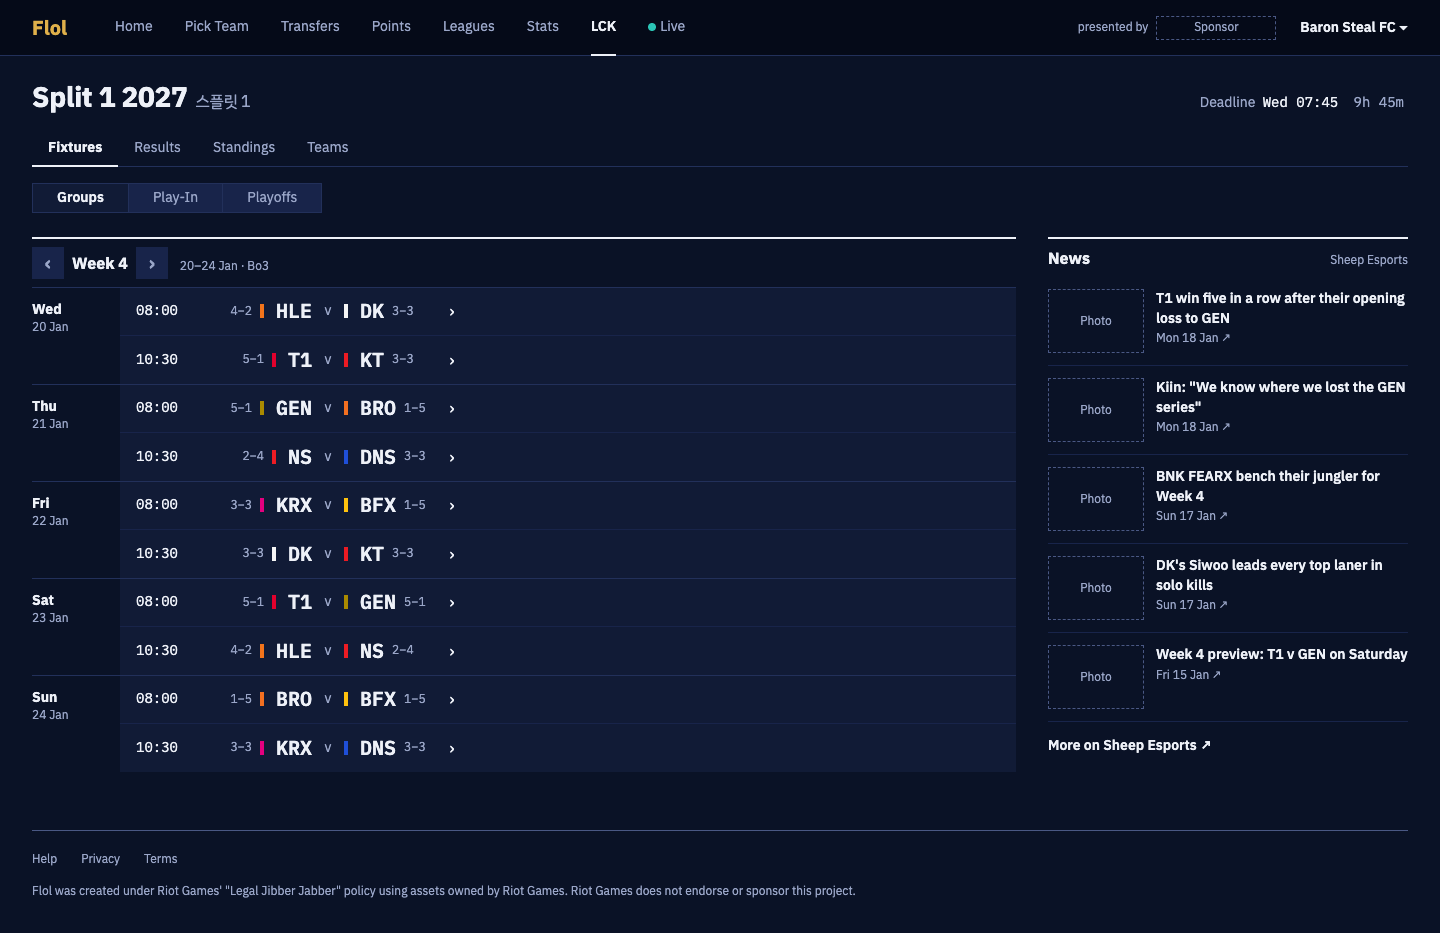
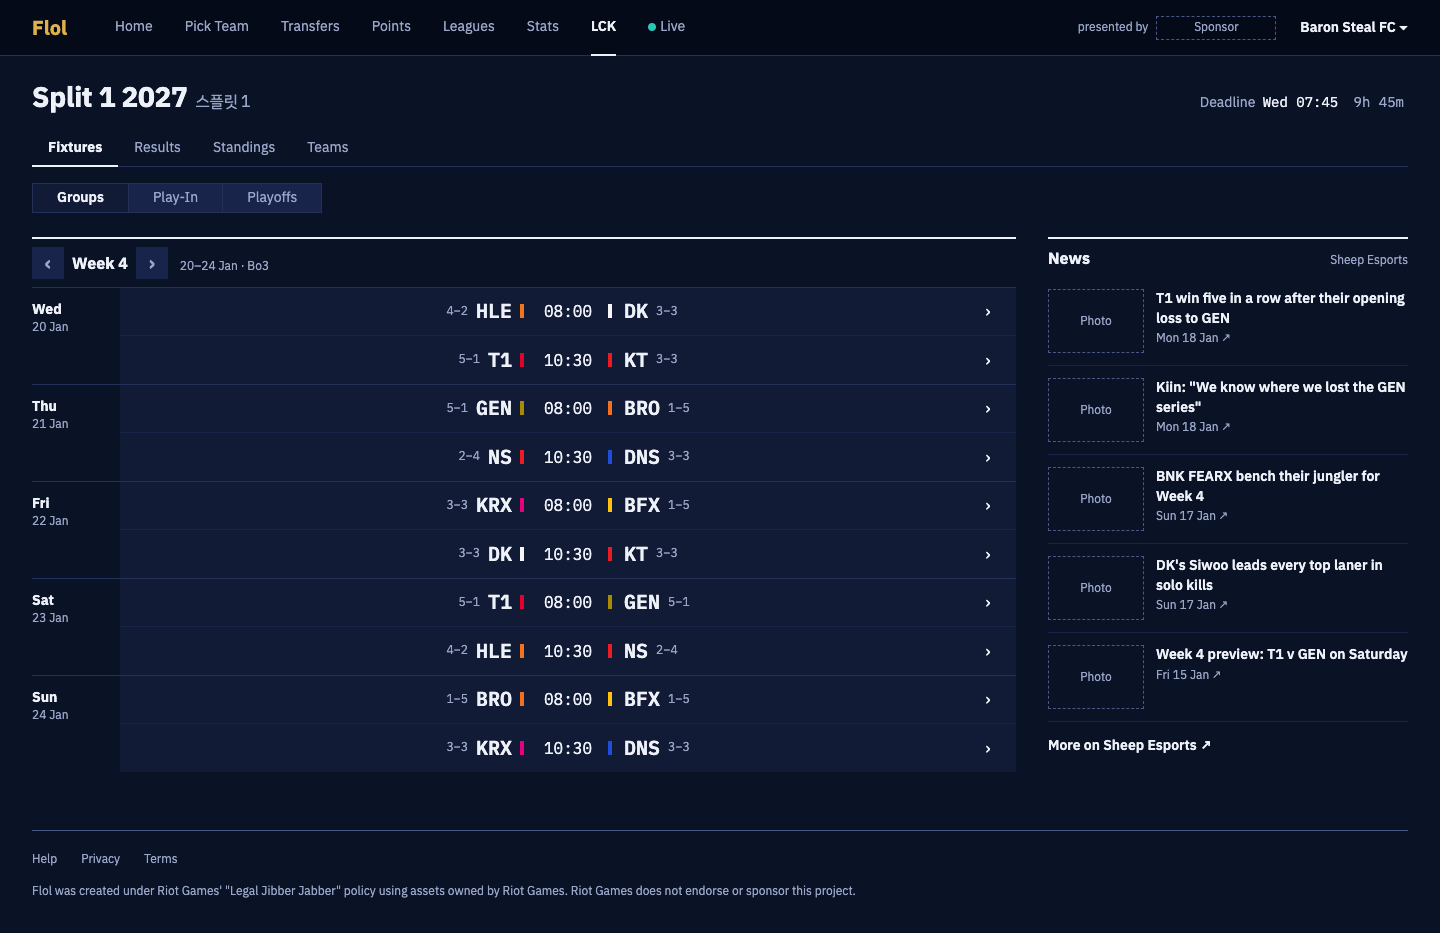
feat: fixtures rows centred with the time between the teams; a rank's move green up and red down
Part of #408

diff --git a/src/screens/lck-hub/FixturesTab.tsx b/src/screens/lck-hub/FixturesTab.tsx
@@ -3,11 +3,10 @@ import { TeamBar, GoLink, NONE } from "../../parts";
 import { seriesGo } from "../../paths";
 import type { HubWeek } from "./types";
 import { ByDay, WeekTitle } from "./Week";
-import { WORDS } from "./words";
 
 /**
- * Fixtures: one week by day. Each series: your time, each team's record beside its code,
- * blue side left, then `›`; the whole row opens the Series page.
+ * Fixtures: one week by day. Each series, centred as FPL's and UCL Fantasy's (Craig, 24 Nov 2026): each team's
+ * record and code either side of your time, blue side left, then `›`; the whole row opens the Series page.
  */
 export function Fixtures({
   week,
@@ -31,13 +30,12 @@ export function Fixtures({
         series={week.series}
         row={(s) => (
           <GoLink key={s.id} className="lck-hub__series" go={seriesGo(s.id)}>
-            <span className="num">{s.local}</span>
             <span className="lck-hub__home">
               {record(s.home)}
-              <TeamBar team={s.home} />
               <b className="lck-hub__code num">{s.home}</b>
+              <TeamBar team={s.home} />
             </span>
-            <span className="lck-hub__versus">{WORDS.versus}</span>
+            <span className="lck-hub__time num">{s.local}</span>
             <span className="lck-hub__away">
               <TeamBar team={s.away} />
               <b className="lck-hub__code num">{s.away}</b>

diff --git a/src/screens/lck-hub/lck-hub.css b/src/screens/lck-hub/lck-hub.css
@@ -33,16 +33,16 @@
 }
 .lck-hub__series {
   display: grid;
-  grid-template-columns:
-    calc(var(--s-7) + var(--s-4)) calc(var(--s-7) * 2 + var(--s-4)) var(--s-6)
-    calc(var(--s-7) * 2) var(--m-target) 1fr;
+  /* Centred: a team each side of the time; the left padding matches the `›` column, so the time sits mid-row. */
+  grid-template-columns: 1fr calc(var(--s-7) + var(--s-6)) 1fr var(--m-target);
   align-items: center;
   height: var(--s-7);
-  padding: 0 var(--s-4);
+  padding: 0 var(--s-4) 0 calc(var(--s-4) + var(--m-target));
   background: var(--paper);
   border-bottom: var(--m-rule) solid var(--fill);
 }
 .lck-hub__series--result {
+  padding: 0 var(--s-4);
   grid-template-columns: calc(var(--s-7) * 2 + var(--s-6) + var(--s-3)) calc(var(--s-7) + var(--s-6)) calc(var(--s-7) + var(--s-4)) var(--m-target) 1fr;
 }
 .lck-hub__series:last-child {
@@ -75,9 +75,9 @@
 .lck-hub__record {
   margin: 0 var(--s-2);
 }
-.lck-hub__versus {
+.lck-hub__time {
   text-align: center;
-  color: var(--mid);
+  font-size: var(--size-lead);
 }
 .lck-hub__score {
   text-align: center;

diff --git a/src/screens/lck-hub/lck-hub.test.tsx b/src/screens/lck-hub/lck-hub.test.tsx
@@ -37,20 +37,20 @@ describe("each state renders from the fixture, in the picture's order", () => {
       ...STAGES,
       "‹Week 4›",
       "20–24 Jan · Bo3Wed20 Jan",
-      "08:004–2HLEvDK3–3›",
-      "10:305–1T1vKT3–3›",
+      "4–2HLE08:00DK3–3›",
+      "5–1T110:30KT3–3›",
       "Thu21 Jan",
-      "08:005–1GENvBRO1–5›",
-      "10:302–4NSvDNS3–3›",
+      "5–1GEN08:00BRO1–5›",
+      "2–4NS10:30DNS3–3›",
       "Fri22 Jan",
-      "08:003–3KRXvBFX1–5›",
-      "10:303–3DKvKT3–3›",
+      "3–3KRX08:00BFX1–5›",
+      "3–3DK10:30KT3–3›",
       "Sat23 Jan",
-      "08:005–1T1vGEN5–1›",
-      "10:304–2HLEvNS2–4›",
+      "5–1T108:00GEN5–1›",
+      "4–2HLE10:30NS2–4›",
       "Sun24 Jan",
-      "08:001–5BROvBFX1–5›",
-      "10:303–3KRXvDNS3–3›",
+      "1–5BRO08:00BFX1–5›",
+      "3–3KRX10:30DNS3–3›",
       ...NEWS,
     ]);
   });

diff --git a/src/theme/base.css b/src/theme/base.css
@@ -34,7 +34,7 @@ a {
   content: "▼";
   font-size: var(--size-small);
 }
-/* A rank's move stays --text, never gold: red and blue are for prices only. ▲ or ▼, a space, then the places; a held rank's — in mid grey. */
+/* A rank's move: up green, down red, as FPL's arrows (Craig, 24 Nov 2026), never colour alone: ▲ or ▼, a space, then the places; a held rank's — in mid grey. */
 .rank-up,
 .rank-down,
 .rank-held {
@@ -44,6 +44,12 @@ a {
 }
 .rank-held {
   color: var(--mid);
+}
+.rank-up {
+  color: var(--up);
+}
+.rank-down {
+  color: var(--down);
 }
 .rank-up::before {
   content: "▲ ";

diff --git a/src/theme/game.ts b/src/theme/game.ts
@@ -7,6 +7,9 @@ export const game = {
     rise: "#FF6B78",
     /** A price fall, blue as Korea writes a fall, lightened to read on a dark ground. */
     fall: "#6EA2FF",
+    /** A rank's move in a league: up green, down red, as FPL's arrows (Craig, 24 Nov 2026). */
+    up: "#4CD98A",
+    down: "#FF6B78",
   },
 } as const;
 

diff --git a/src/screens/lck-hub/words.ts b/src/screens/lck-hub/words.ts
@@ -8,7 +8,6 @@ export const WORDS = {
   hub: `${REGION.name} hub`,
   /** The stage toggle's name, for a reader. */
   stage: "Stage",
-  versus: "v",
   news: "News",
   /** A headline's picture until the news feed brings its own (#116). */
   photo: "Photo",

diff --git a/src/theme/theme.test.ts b/src/theme/theme.test.ts
@@ -109,6 +109,8 @@ const PAIRS = [
   ["ink", "band"],
   ["ink", "paper"],
   ["onInk", "ink"],
+  ["up", "paper"],
+  ["down", "paper"],
   ["rise", "paper"],
   ["fall", "paper"],
   ["over", "bg"],

diff --git a/docs/design/plate.md b/docs/design/plate.md
@@ -77,6 +77,7 @@ map and the tile keep their earlier values until their own pictures are redrawn.
 | `--banner-rule` | #785A28 | the banner's rule under that hangul |
 | `--rise` | #FF6B78 | a price rise, Korean red lightened for navy |
 | `--fall` | #6EA2FF | a price fall, Korean blue lightened for navy |
+| `--up`, `--down` | #4CD98A, #FF6B78 | a rank's move in a league: up green, down red, with its ▲ or ▼ (Craig, 24 Nov 2026) |
 | `--over` | #FF6B78 | the bank below zero, over the budget, with its − (Craig, 16 Nov 2026) |
 | `--signal` | #2BC4B5 | the second accent, teal, sparingly: the live dot, the focus ring |
 | `--stage` | #000508 | Live's dark stage |
@@ -88,11 +89,11 @@ map and the tile keep their earlier values until their own pictures are redrawn.
 - Gold is the one accent, and on these alone: the one main action on a screen, the only filled key; the Captain's
   C; his `✓ Captain` state, edged and never filled; a buff's icon (Craig, 19 Nov 2026); the Flol
   wordmark; all `--ink`. The banner's hangul is its own gold (`--banner`). Section rules, tabs,
-  selected borders, links, tags, a page title's hangul and a rank's move (▲/▼) are `--text` or grey
+  selected borders, links, tags and a page title's hangul are `--text` or grey
   (`--mid`, `--line`), never gold (Craig, 16 Nov 2026).
 - Overall's tier shield is a `--text` fill, one colour for every tier (Craig, 16 Nov 2026).
-- Colour is spent on meaning only, never to decorate: red and blue are prices and the bank only; a rank's move
-  stays `--text` (Craig, 16 Nov 2026).
+- Colour is spent on meaning only, never to decorate: red and blue are prices and the bank; a rank's move
+  in a league is green up and red down, as FPL's arrows (Craig, 24 Nov 2026; was `--text`).
 - Never colour alone: a rise also has ▲, a fall ▼, live a dot and the word.
 
 ## Parts

diff --git a/docs/design/approved/team-colour/README.md b/docs/design/approved/team-colour/README.md
@@ -6,7 +6,7 @@ A small bar of a team's own colour before its code, wherever a list names a team
 
 | File | Shows |
 |---|---|
-| `1440-fixtures.png` | The LCK's fixtures, shot from the built app: a bar before each team's code |
+| `1440-fixtures.png` | The LCK's fixtures, shot from the built app: the rows centred as FPL's and UCL Fantasy's, each team's code and bar either side of the time (Craig, 24 Nov 2026: "Yes, centre them") |
 | `1440-stats.png` | Stats: a bar before each player's team |
 
 ## Rules
